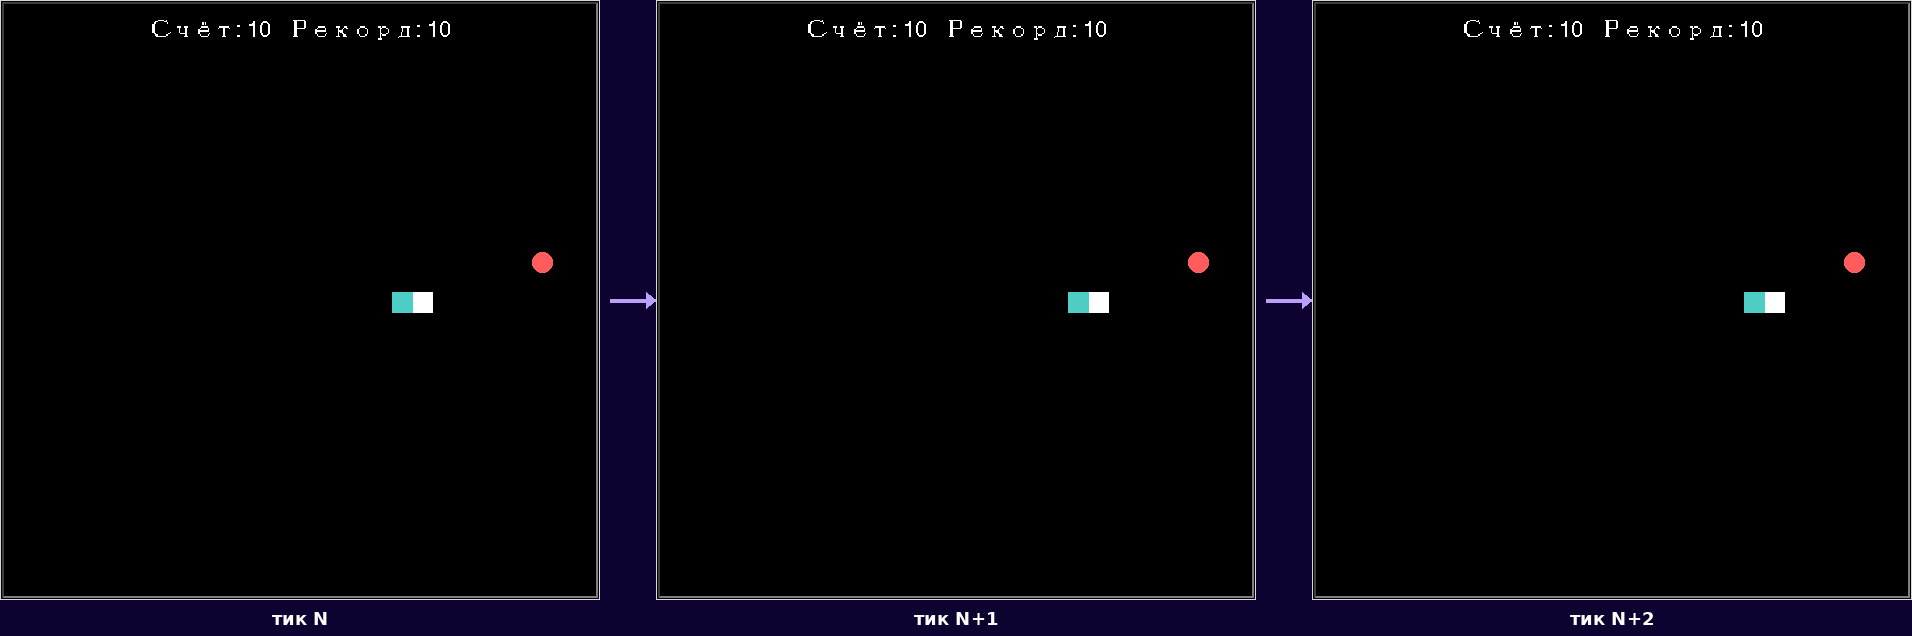
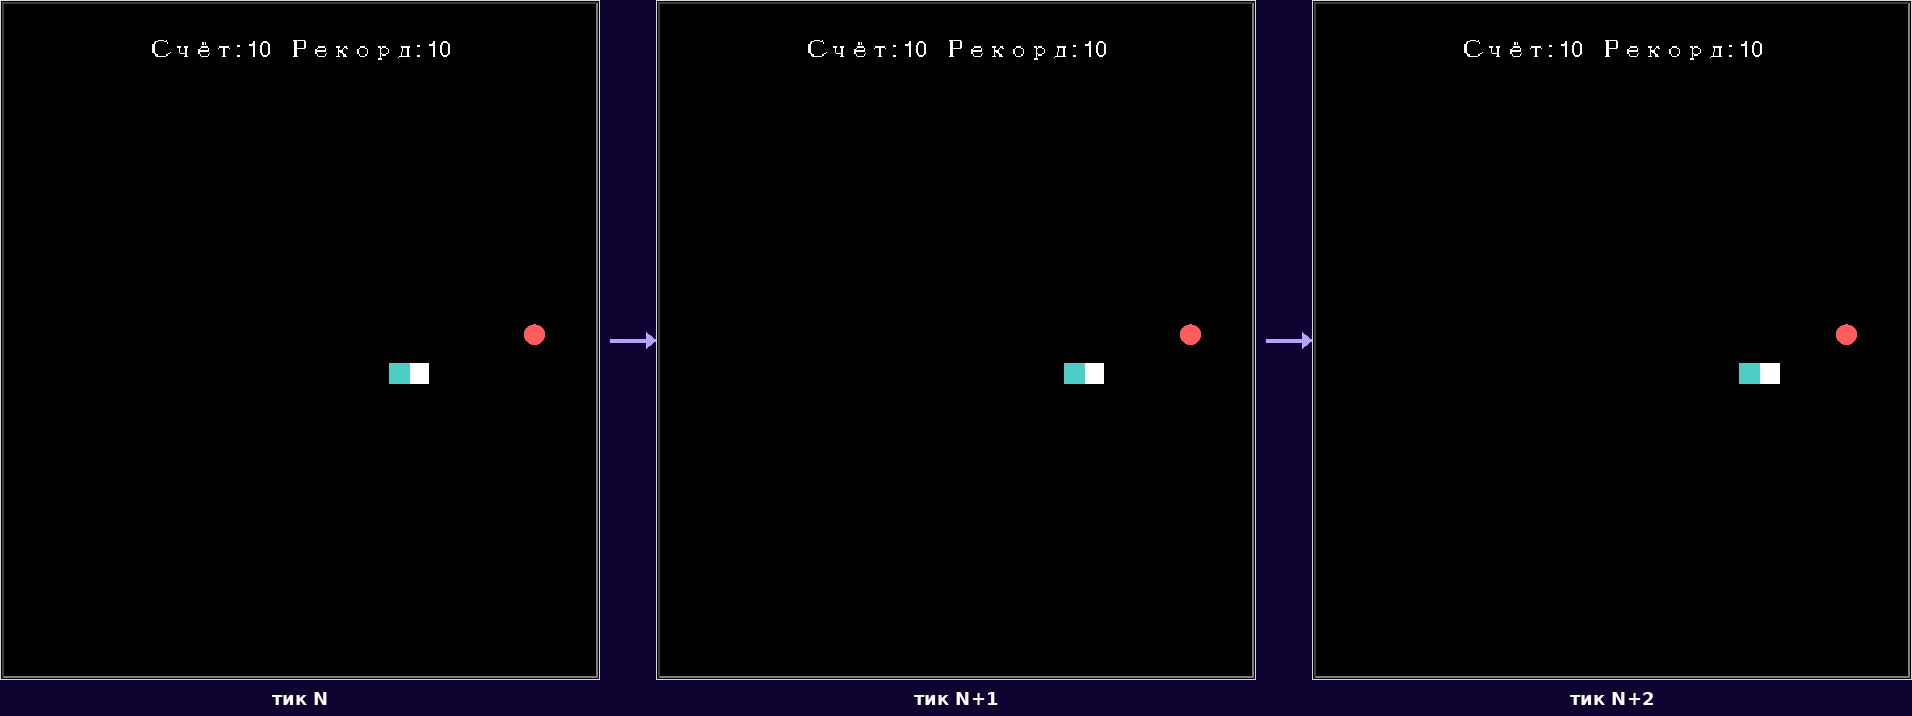
chore: regenerate Chapter 19 visual outputs for the new HUD layout
generate_chapter_19_outputs.py: captures at the real WINDOW_WIDTH/
WINDOW_HEIGHT constants (600x680, not the old hardcoded 600x600) so the
HUD band is actually in frame; removes the "move food away from the
scoreboard" workaround in the food-eaten scene (no longer needed — the
HUD physically cannot overlap a legal cell, so choose_food()'s real,
unmanipulated pick is captured); re-raises text canvas items after its own
extra screen.update() call, the same fix snake.py needed internally, for
the same reason (see the runtime-fix commit). Adds won_full_board(): a
real GameStatus.WON capture — an actual 840-segment snake fills the board
and eats the last cell through a genuine game_tick(), not a staged image.

validate_chapter_19_outputs.py: adds snake-won to REQUIRED_NAMES.

Regenerates every "Pro" screenshot (snake_basic.py's window/output is
untouched — its layout never had this bug). Validator: 35 files (31 raw +
4 composite) — computed from REQUIRED_NAMES/REQUIRED_COMPOSITES, not
hand-counted (the source of a prior report's arithmetic error).

Claude-Session: https://claude.ai/code/session_019hzWutF7eLtvhnctGGKRMN

diff --git a/scripts/generate_chapter_19_outputs.py b/scripts/generate_chapter_19_outputs.py
@@ -28,7 +28,7 @@ sys.path.insert(0, str(ROOT / "projects" / "turtle" / "snake"))
 
 import snake as s  # noqa: E402
 
-WIN_W, WIN_H = 600, 600
+WIN_W, WIN_H = s.WINDOW_WIDTH, s.WINDOW_HEIGHT
 
 
 def _autocrop(img: Image.Image) -> Image.Image:
@@ -40,6 +40,19 @@ def _autocrop(img: Image.Image) -> Image.Image:
 
 def capture(name: str, app: "s.SnakeApp") -> Image.Image:
     app.screen.update()
+    # screen.update() re-raises every visible turtle's own shape above
+    # whatever was drawn before it — including above overlay/scoreboard
+    # text, which SnakeApp._show_overlay() already corrects for internally,
+    # but THIS extra update() call (needed here because the generator never
+    # runs a real mainloop()) can undo that correction again. Re-raise any
+    # text items one more time, right before grabbing, so a screenshot never
+    # captures overlay text stuck behind a crowded board (see snake.py's
+    # _show_overlay() for the same fix in real interactive gameplay).
+    canvas = app.screen.getcanvas()
+    for item in canvas.find_all():
+        if canvas.type(item) == "text":
+            canvas.tag_raise(item)
+    canvas.update_idletasks()  # flush the corrected stacking order to the screen before grabbing
     img = ImageGrab.grab(bbox=(0, 0, WIN_W, WIN_H))
     img = _autocrop(img)
     OUT_DIR.mkdir(parents=True, exist_ok=True)
@@ -145,10 +158,11 @@ def moving_right_and_growing() -> None:
     app.state.food = s.next_head(app.state.snake[0], s.Direction.RIGHT)
     capture("snake-food-eaten-before", app)
     run(app, s.Direction.RIGHT, 1)
-    # choose_food() честно выбрала следующую еду случайно — для этого кадра
-    # переставим её подальше от табло счёта, чтобы не перекрывать текст.
-    app.state.food = (100, -100)
-    app.render()
+    # choose_food() честно выбрала следующую еду случайно — раньше здесь
+    # приходилось вручную переставлять её подальше от табло счёта, чтобы не
+    # перекрывать текст (HUD сидел внутри легального поля). Теперь HUD —
+    # отдельная полоса над полем (раздел 19.32), и такой workaround больше
+    # не нужен: кадр показывает настоящий выбор choose_food() как есть.
     capture("snake-food-eaten-after", app)
     capture("snake-one-segment", app)
 
@@ -334,6 +348,30 @@ def final_overview() -> None:
     close(app)
 
 
+def won_full_board() -> None:
+    """Настоящий переход в GameStatus.WON — не имитация: змейка на самом деле
+    занимает каждую легальную клетку поля, кроме одной, ест эту последнюю
+    клетку через настоящий game_tick(), и choose_food() честно возвращает
+    None, потому что свободных клеток больше нет (раздел 19.18)."""
+    app = reset_app(seed=13)
+    all_cells = list(s.all_cells())
+    last_free = all_cells[-1]
+    head_cell = s.next_head(last_free, s.OPPOSITE[s.Direction.RIGHT])
+    body_cells = [c for c in all_cells if c not in (last_free, head_cell)]
+    app.state.snake = [head_cell, *body_cells]
+    app.state.direction = s.Direction.RIGHT
+    app.state.next_direction = s.Direction.RIGHT
+    app.state.score = (len(app.state.snake) - 1) * s.FOOD_SCORE
+    app.state.high_score = app.state.score
+    app.state.status = s.GameStatus.RUNNING
+    app.state.food = last_free
+    app.game_tick()
+    assert app.state.status is s.GameStatus.WON
+    assert app.state.food is None
+    capture("snake-won", app)
+    close(app)
+
+
 def build_composites() -> None:
     compose_strip(
         ["snake-body-follow-1", "snake-body-follow-2", "snake-body-follow-3"],
@@ -365,5 +403,6 @@ if __name__ == "__main__":
     grid_demo()
     final_pro()
     final_overview()
+    won_full_board()
     build_composites()
     get_app().screen.bye()

diff --git a/scripts/validate_chapter_19_outputs.py b/scripts/validate_chapter_19_outputs.py
@@ -37,6 +37,7 @@ REQUIRED_NAMES = [
     "snake-fast-speed",
     "snake-grid-demo",
     "snake-final-pro",
+    "snake-won",
     # первый прототип (snake_basic.py) — используется на страницах 19-02..19-08
     "snake-basic-empty-field",
     "snake-basic-head-food",
